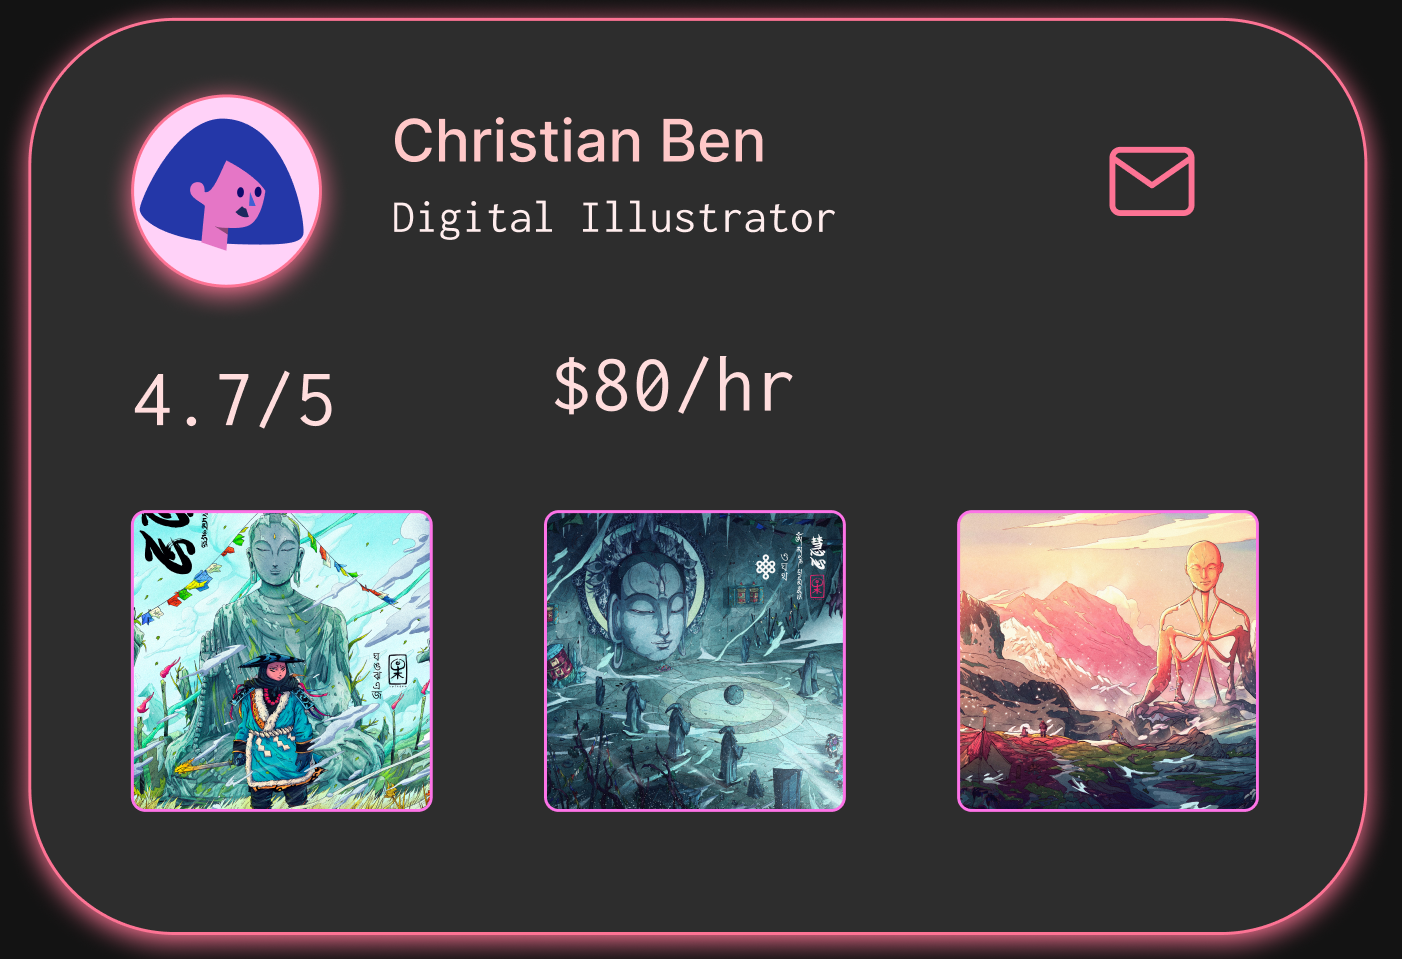
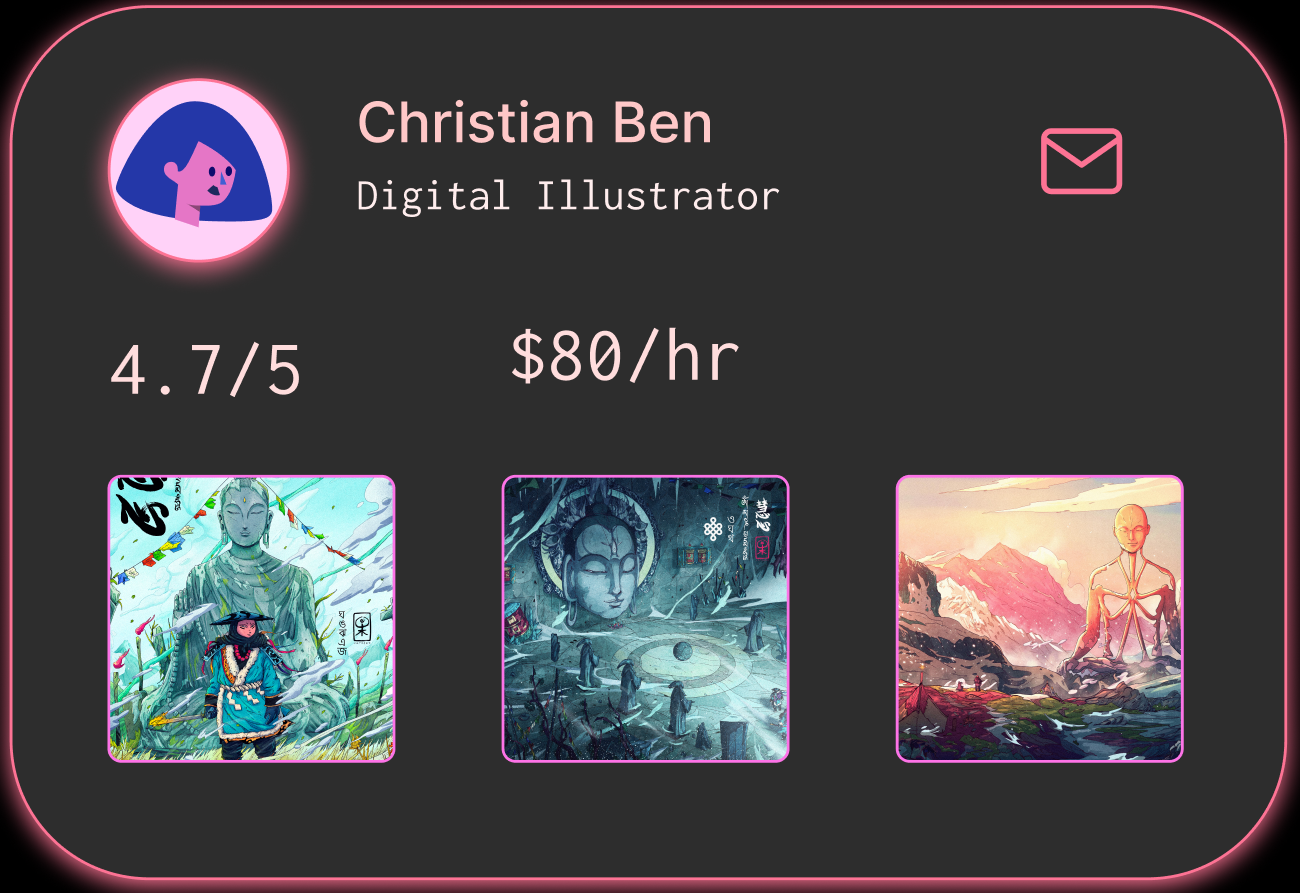
new people

diff --git a/style.css b/style.css
@@ -16,7 +16,97 @@ input:focus {
     outline: none;
 }
 
+body{
+	margin: 0;
+	background-color: black;
+}
+
 .container{
+	display: grid;
+	grid-template-rows: auto auto auto auto auto auto auto auto auto;
+	grid-template-columns: auto;
+	background-image: url("bg1.jpg");
+
+  /* Full height */
+  height: 100%;
+
+  /* Center and scale the image nicely */
+  background-position: center;
+  background-repeat: no-repeat;
+  background-size: cover;
+}
+
+.logo{
+	width: 20%;
+	margin-left: 3%;
+	margin-top: 3%;
+}
+
+.hl{
+	font-family: Inter;
+	font-weight: 600;
+	font-size: 36px;
+	color: white;
+	margin-left: 3%;
+}
+
+.red{
+	margin: 0 auto;
+	width: 90%;
+}
+
+.mt{
+	margin: 0 auto;
+	margin-top: 10px;
+	width: 100%;
+}
+
+
+.visual{
+	width: 100%;
+}
+.artist{
+	width: 90%;
+	margin: 0 auto;
+	margin-top: 10px;
+}
+
+.thousand{
+	font-family: Inconsolata;
+
+	font-size: 16px;
+	color: white;
+	margin-left: 3%;
+}
+
+.soon{
+	font-family: Inter;
+	font-weight: 600;
+	font-size: 36px;
+	color: white;
+	text-align: center;
+	margin-top: -5px;
+	margin-bottom: 0px;
+}
+
+a img{
+	margin-left: 10%;
+	width: 80%;
+	margin-top: 7px;
+
+}
+
+.Waitlistlink{
+font-family: Inconsolata;
+color: white;
+margin-top: 5px;
+text-align: center;
+font-size: 20px;
+}
+.footer{
+		height: 50px;
+	}
+/*.container{
 display: grid;
 grid-template-rows: 50px auto auto auto auto auto auto auto auto 20px;
 grid-template-columns: auto;
@@ -138,7 +228,7 @@ font-size: 20px;
 	width: 30%;
 	margin-top: 20px;
 }
-
+*/
 
 
 

diff --git a/people.html b/people.html
@@ -7,8 +7,30 @@
 <link href="https://fonts.googleapis.com/css2?family=Inconsolata:wght@400;700&family=Inter:wght@100;200;300;400;500;600;700;800;900&family=Righteous&display=swap" rel="stylesheet">
 <link href="https://fonts.googleapis.com/css2?family=Merriweather:wght@300;400&display=swap" rel="stylesheet">
 </head>
-
 <body>
+	<meta name="viewport" content="width=device-width, initial-scale=1">
+	<div class = "container">
+
+<div class="nav">
+<img class = "logo" src="logo.png">
+</div>
+<div class = "headline">
+<p class="hl">A Website For All Your Visual Needs</p>
+</div>
+<img class = "red" src = "red.png">
+<img class="mt" src="maintext.png">
+<img class="visual" src ="visualizer.png">
+<img class ="artist" src = "artist1.png">
+<p class="thousand"> & Thousands of such artists waiting for you!</p>
+<p class = "soon"> Launching Soon </p>
+<a href="join.html"><img class ="join" src="join.png"></a>
+<a href="index.html" class = "Waitlistlink"> Signup as an Artist</a>
+	<div class = "footer">
+	</div>
+	</div><!--container-->
+
+</body>
+<!--<body>
 	<meta name="viewport" content="width=device-width, initial-scale=1">
 <div class = "container">
 <div class = "nav">
@@ -45,5 +67,5 @@ A better solution is needed. <em> Curio.</em> </p>
 <a href = "join.html"><button class = "button" type="button">Join The Waitlist</button></a>
 <a href="index.html" class = "Waitlistlink"> Signup as an Artist</a>
 <img class = "end" src="footer.png">
-</div><!--container-->
-</body>
+</div>
+</body>-->
